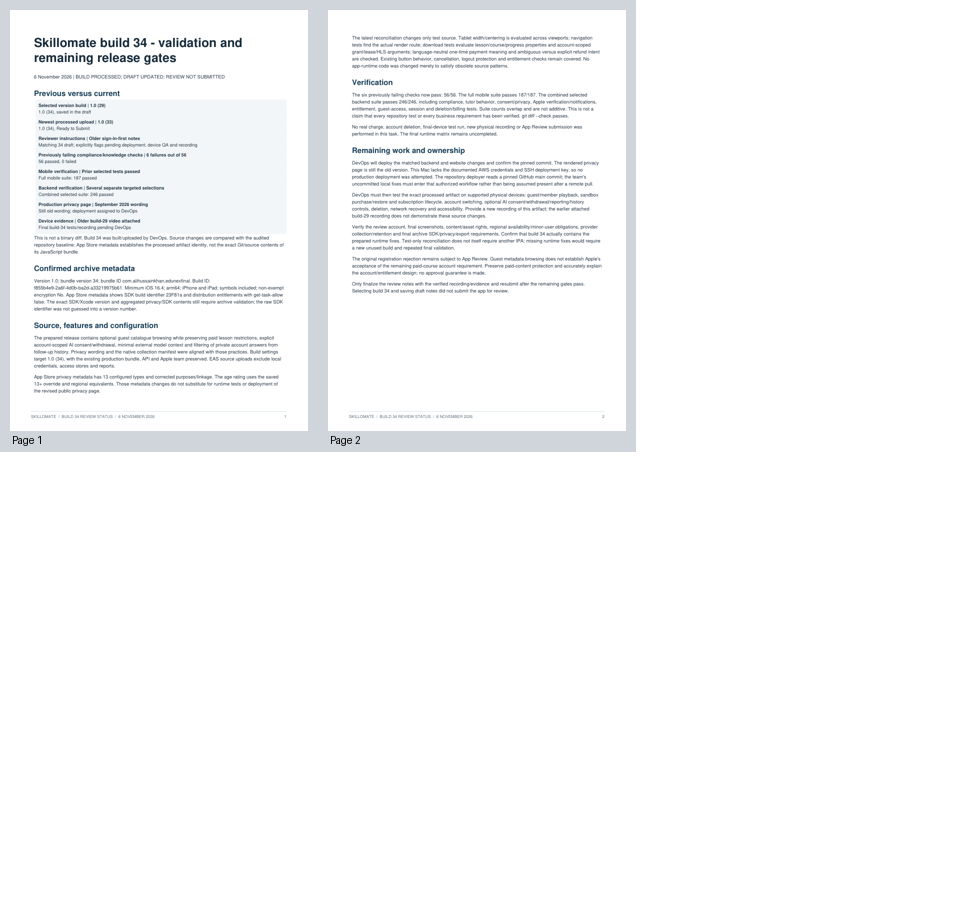
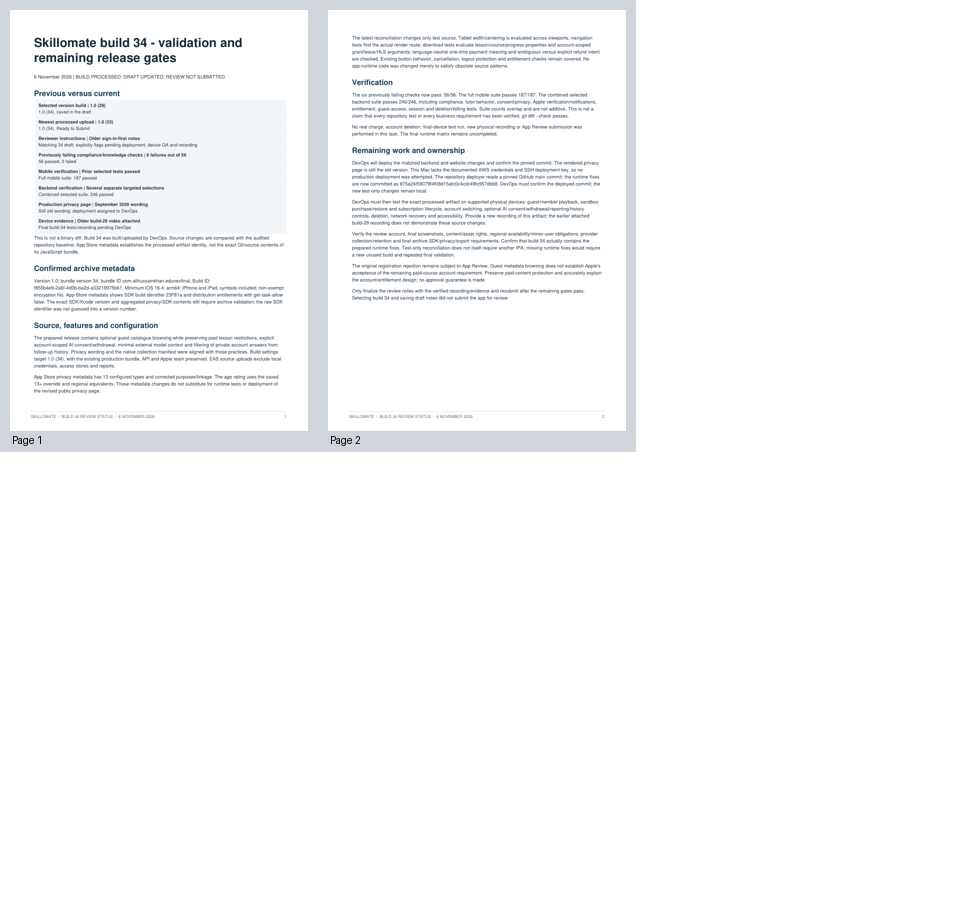
hehehehe

Changed region(s): [[0.3648, 0.1858, 0.6384, 0.3407]]

diff --git a/reports/review-release-34-preparation-2026-11-06/COMPARISON.md b/reports/review-release-34-preparation-2026-11-06/COMPARISON.md
@@ -1,3 +1,5 @@
+> Historical preparation checkpoint: build 34 is now processed and selected, and matching draft notes are saved. Use `current-validation/BUILD34_COMPARISON.md` for the current status, test results and deployment gates.
+
 # Skillomate 1.0 (34) - release preparation comparison
 
 6 November 2026 | SOURCE PREPARED - NOT BUILT OR UPLOADED
